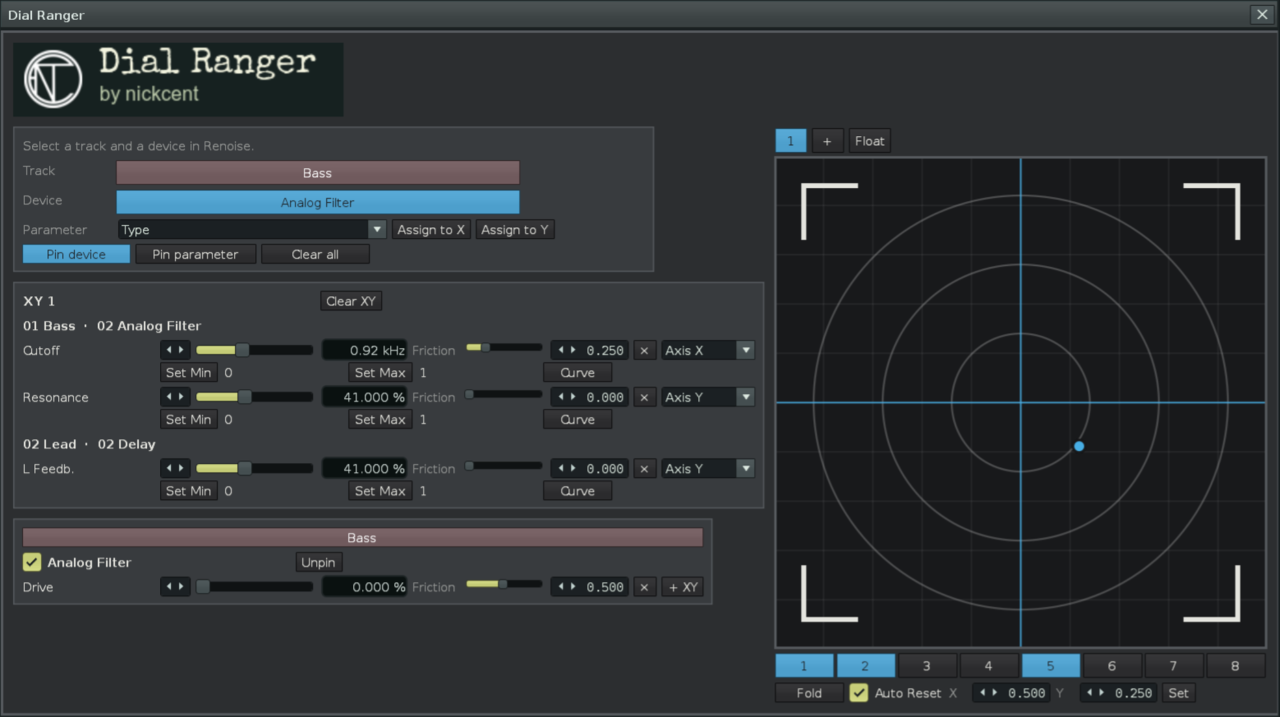
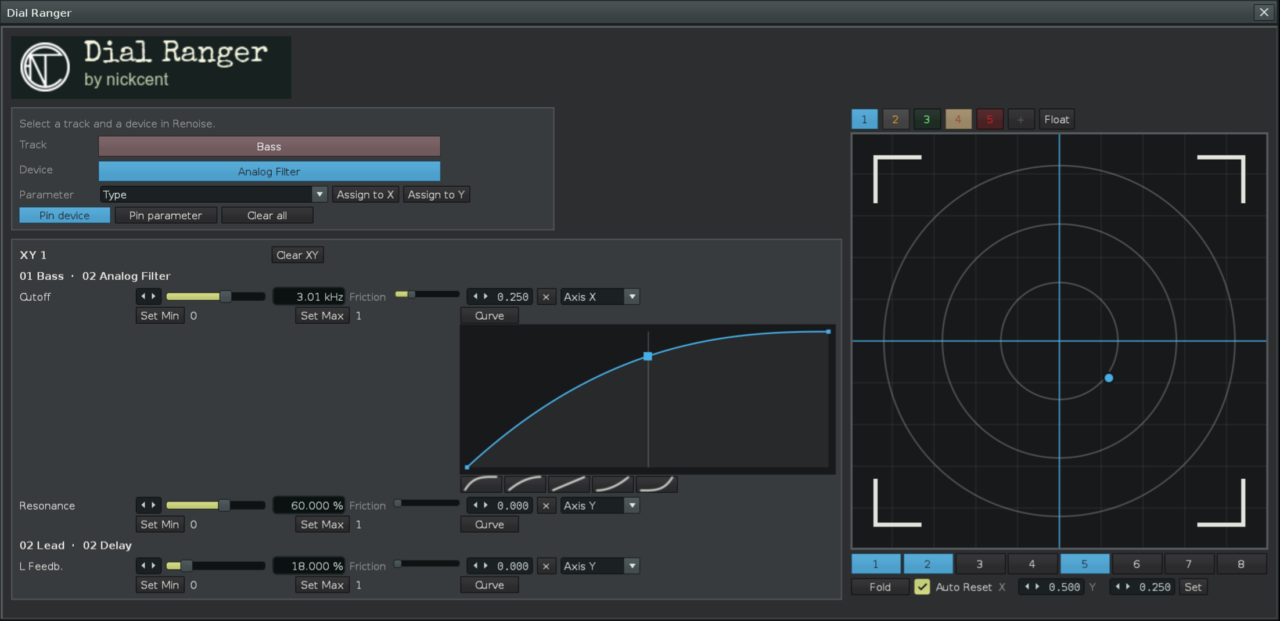
Show all five XYs and a bent curve in the README screenshots
The window shot now has five XYs in the switcher and the curve editor
open on Cutoff; a new strip shows all five pads floating in their own
colours, replacing the single floating pad.

diff --git a/README.md b/README.md
@@ -4,7 +4,7 @@ A Renoise tool that keeps chosen device parameters in one window, lets you
 tune them with a slowed-down mouse, and plays captured ranges together on XY
 pads that record into automation.
 
-![The Dial Ranger window: three parameters from two devices on one XY pad](docs/dial-ranger-window.png)
+![The Dial Ranger window: five XYs, three parameters from two devices on XY 1, and a bent response curve](docs/dial-ranger-window.png)
 
 Needs Renoise 3.5 or newer. This release was tested with Renoise 3.5.4 on
 Windows; macOS and Linux have not been checked.
@@ -85,7 +85,7 @@ position.
 colour; every XY can float at once. **Dock** puts the pad back. **Fold** hides
 everything except the pad and its strips.
 
-<img src="docs/dial-ranger-float.png" width="380" alt="An XY pad floating in its own window">
+![All five XYs floating, each in its own colour](docs/dial-ranger-xys.png)
 
 ## Where the setup is kept
 
